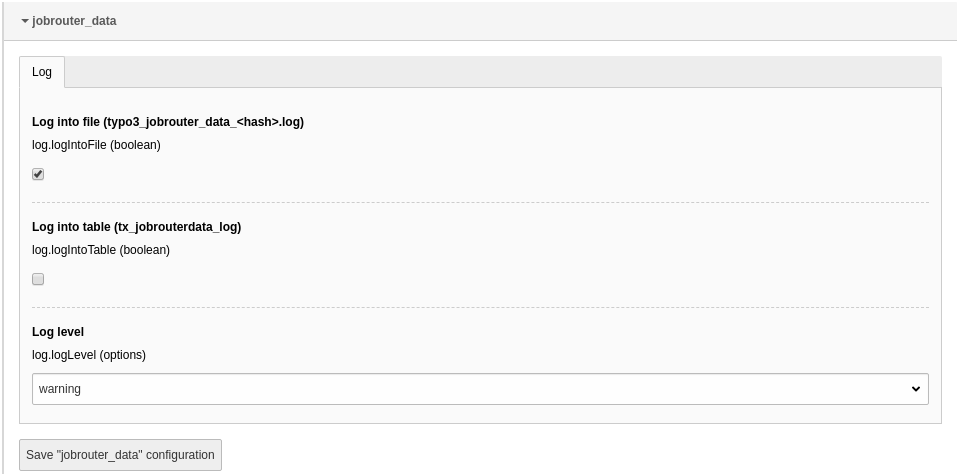
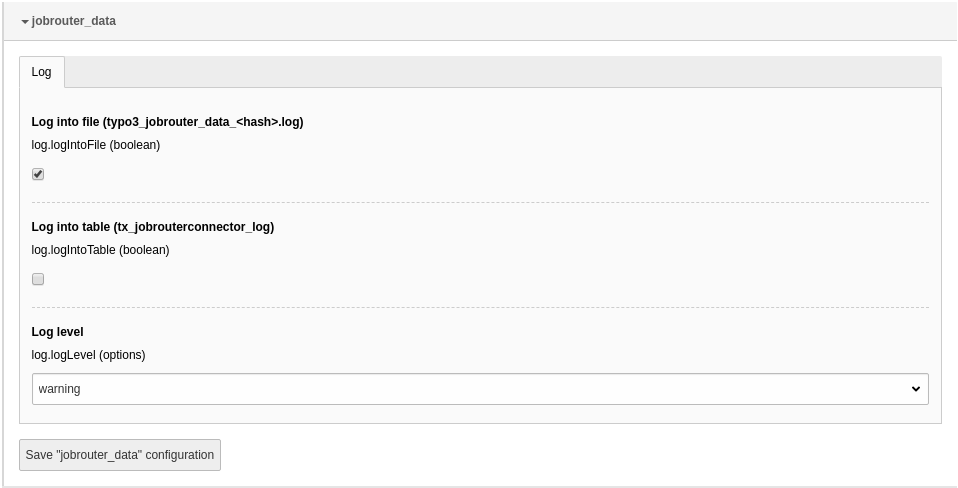
[TASK] Use log table from EXT:jobrouter_connector

diff --git a/ext_localconf.php b/ext_localconf.php
@@ -18,7 +18,7 @@ defined('TYPO3_MODE') || die('Access denied.');
         $writerConfiguration[\TYPO3\CMS\Core\Log\Writer\FileWriter::class] = ['logFileInfix' => $extensionKey];
     }
     if ($configuration['logIntoTable']) {
-        $writerConfiguration[\TYPO3\CMS\Core\Log\Writer\DatabaseWriter::class] = ['logTable' => 'tx_jobrouterdata_log'];
+        $writerConfiguration[\TYPO3\CMS\Core\Log\Writer\DatabaseWriter::class] = ['logTable' => 'tx_jobrouterconnector_log'];
     }
 
     if (!empty($writerConfiguration)) {

diff --git a/ext_emconf.php b/ext_emconf.php
@@ -10,7 +10,7 @@ $EM_CONF[$_EXTKEY] = [
     'constraints' => [
         'depends' => [
             'typo3' => '9.5.0-9.5.99',
-            'jobrouter_connector' => '0.7.0-0.7.99',
+            'jobrouter_connector' => '0.8.0-0.8.99',
         ],
         'conflicts' => [],
         'suggests' => [],

diff --git a/Documentation/configuration.rst b/Documentation/configuration.rst
@@ -35,12 +35,12 @@ installations). It is enabled by default.
 log.logIntoTable
 ----------------
 
-Activate this option to log into the table `tx_jobrouterdata_log`. It is
+Activate this option to log into the table `tx_jobrouterconnector_log`. It is
 disabled by default.
 
 .. hint::
 
-   To see the log entries of this table in the TYPO3 backend, install the
+   To display the log entries of this table in the TYPO3 backend, install the
    extension `vertexvaar/logs <https://github.com/vertexvaar/logs>`_.
 
 log.logLevel
